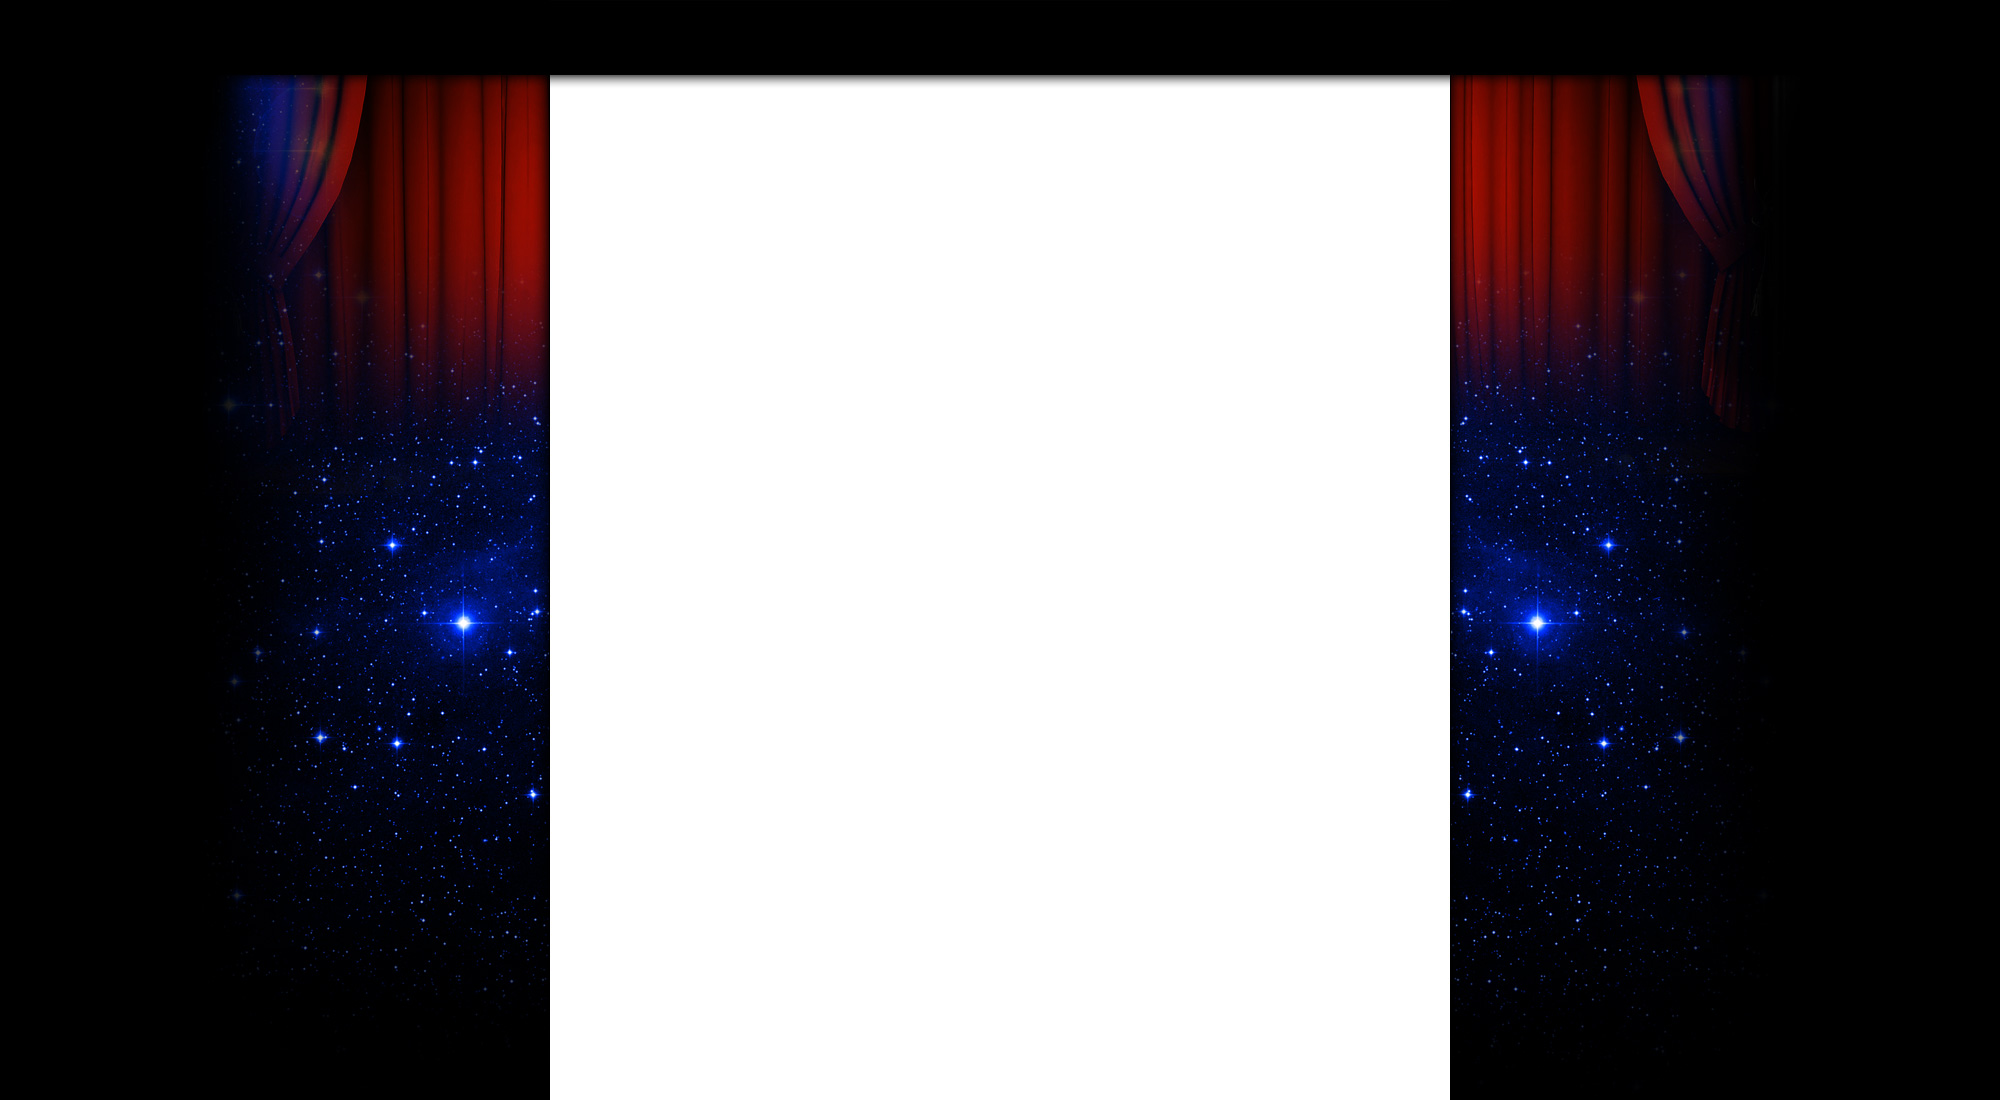
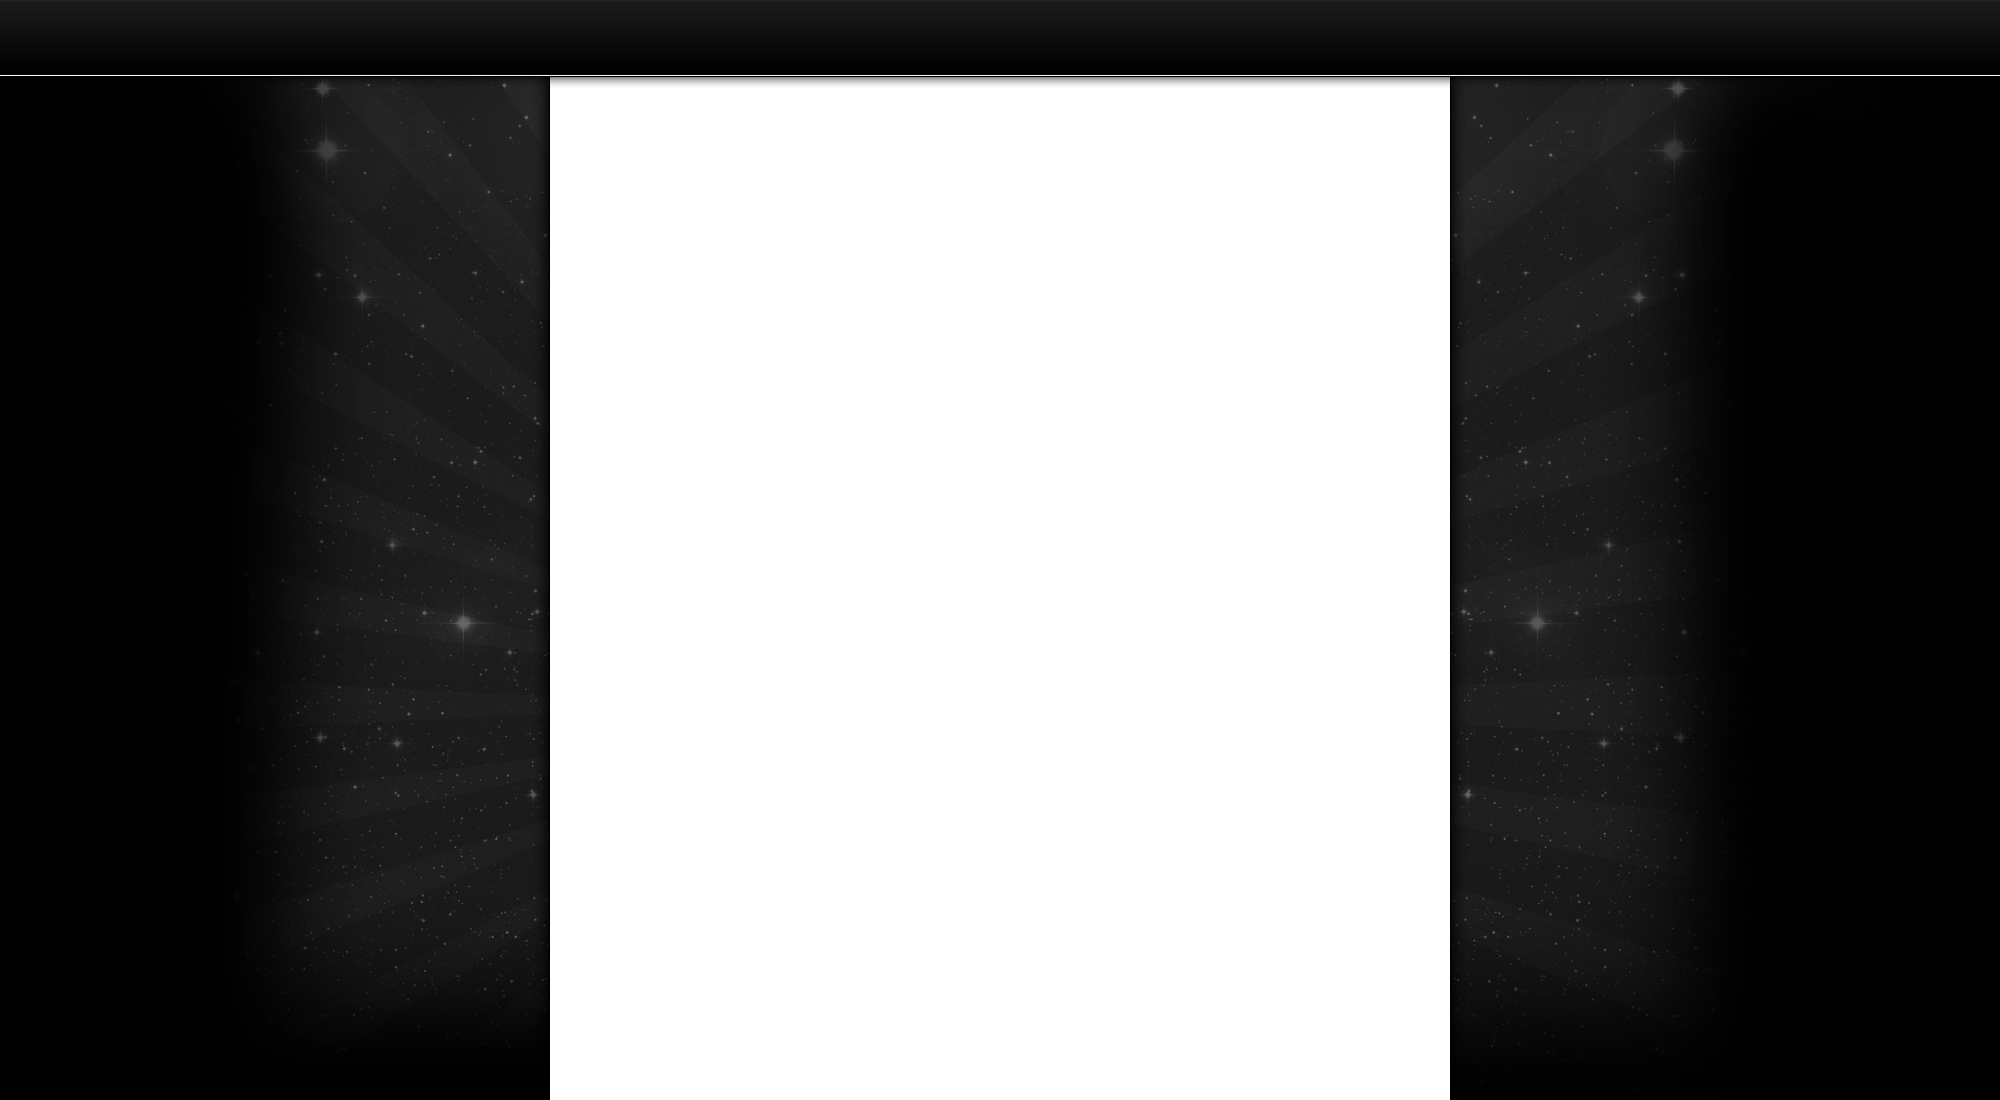
apr 13 1248am

diff --git a/public/style.css b/public/style.css
@@ -3,7 +3,7 @@
 
 body {
 	margin: 0;
-  	background: #000 url(images/bg.jpg) top center no-repeat;
+  	background: #000 url(images/bg.png) top center no-repeat;
   	font-family: Helvetica, Arial;
   	font-size: 12px;
 	text-align: center;
@@ -41,6 +41,12 @@ body a:hover { text-decoration: underline;  }
 	width: 100%;
 	height: 1px;
 	}
+	
+.full_name {
+	color: #999;
+	font-weight: normal;
+	font-size: 12px;
+}
 
 /* WEBSITE
 ================================================*/
@@ -897,7 +903,8 @@ input#comment_submit:active {
 	}
 
 .class {
-	color: #006fff;
+	color: #555;
+	font-weight: bold;
 	}
 
 /* PROFILE / DASHBOARD

diff --git a/config/routes.rb b/config/routes.rb
@@ -41,7 +41,7 @@ ActionController::Routing::Routes.draw do |map|
 
   map.resources :profiles
 
-  map.resources :users, :as => "members",
+  map.resources :users, :as => "people",
                 :has_one => [:password, :confirmation], 
                 :member => {
                   :follow                 => :post,

diff --git a/app/controllers/users_controller.rb b/app/controllers/users_controller.rb
@@ -10,7 +10,7 @@ class UsersController < ApplicationController
   helper :notifications
   
   def index
-		@title = "Members"
+		@title = "People"
     @users = User.sort_by(params[:sort]).paginate(:include => :profile, :per_page => 40, :page => params[:page])
   end
   
